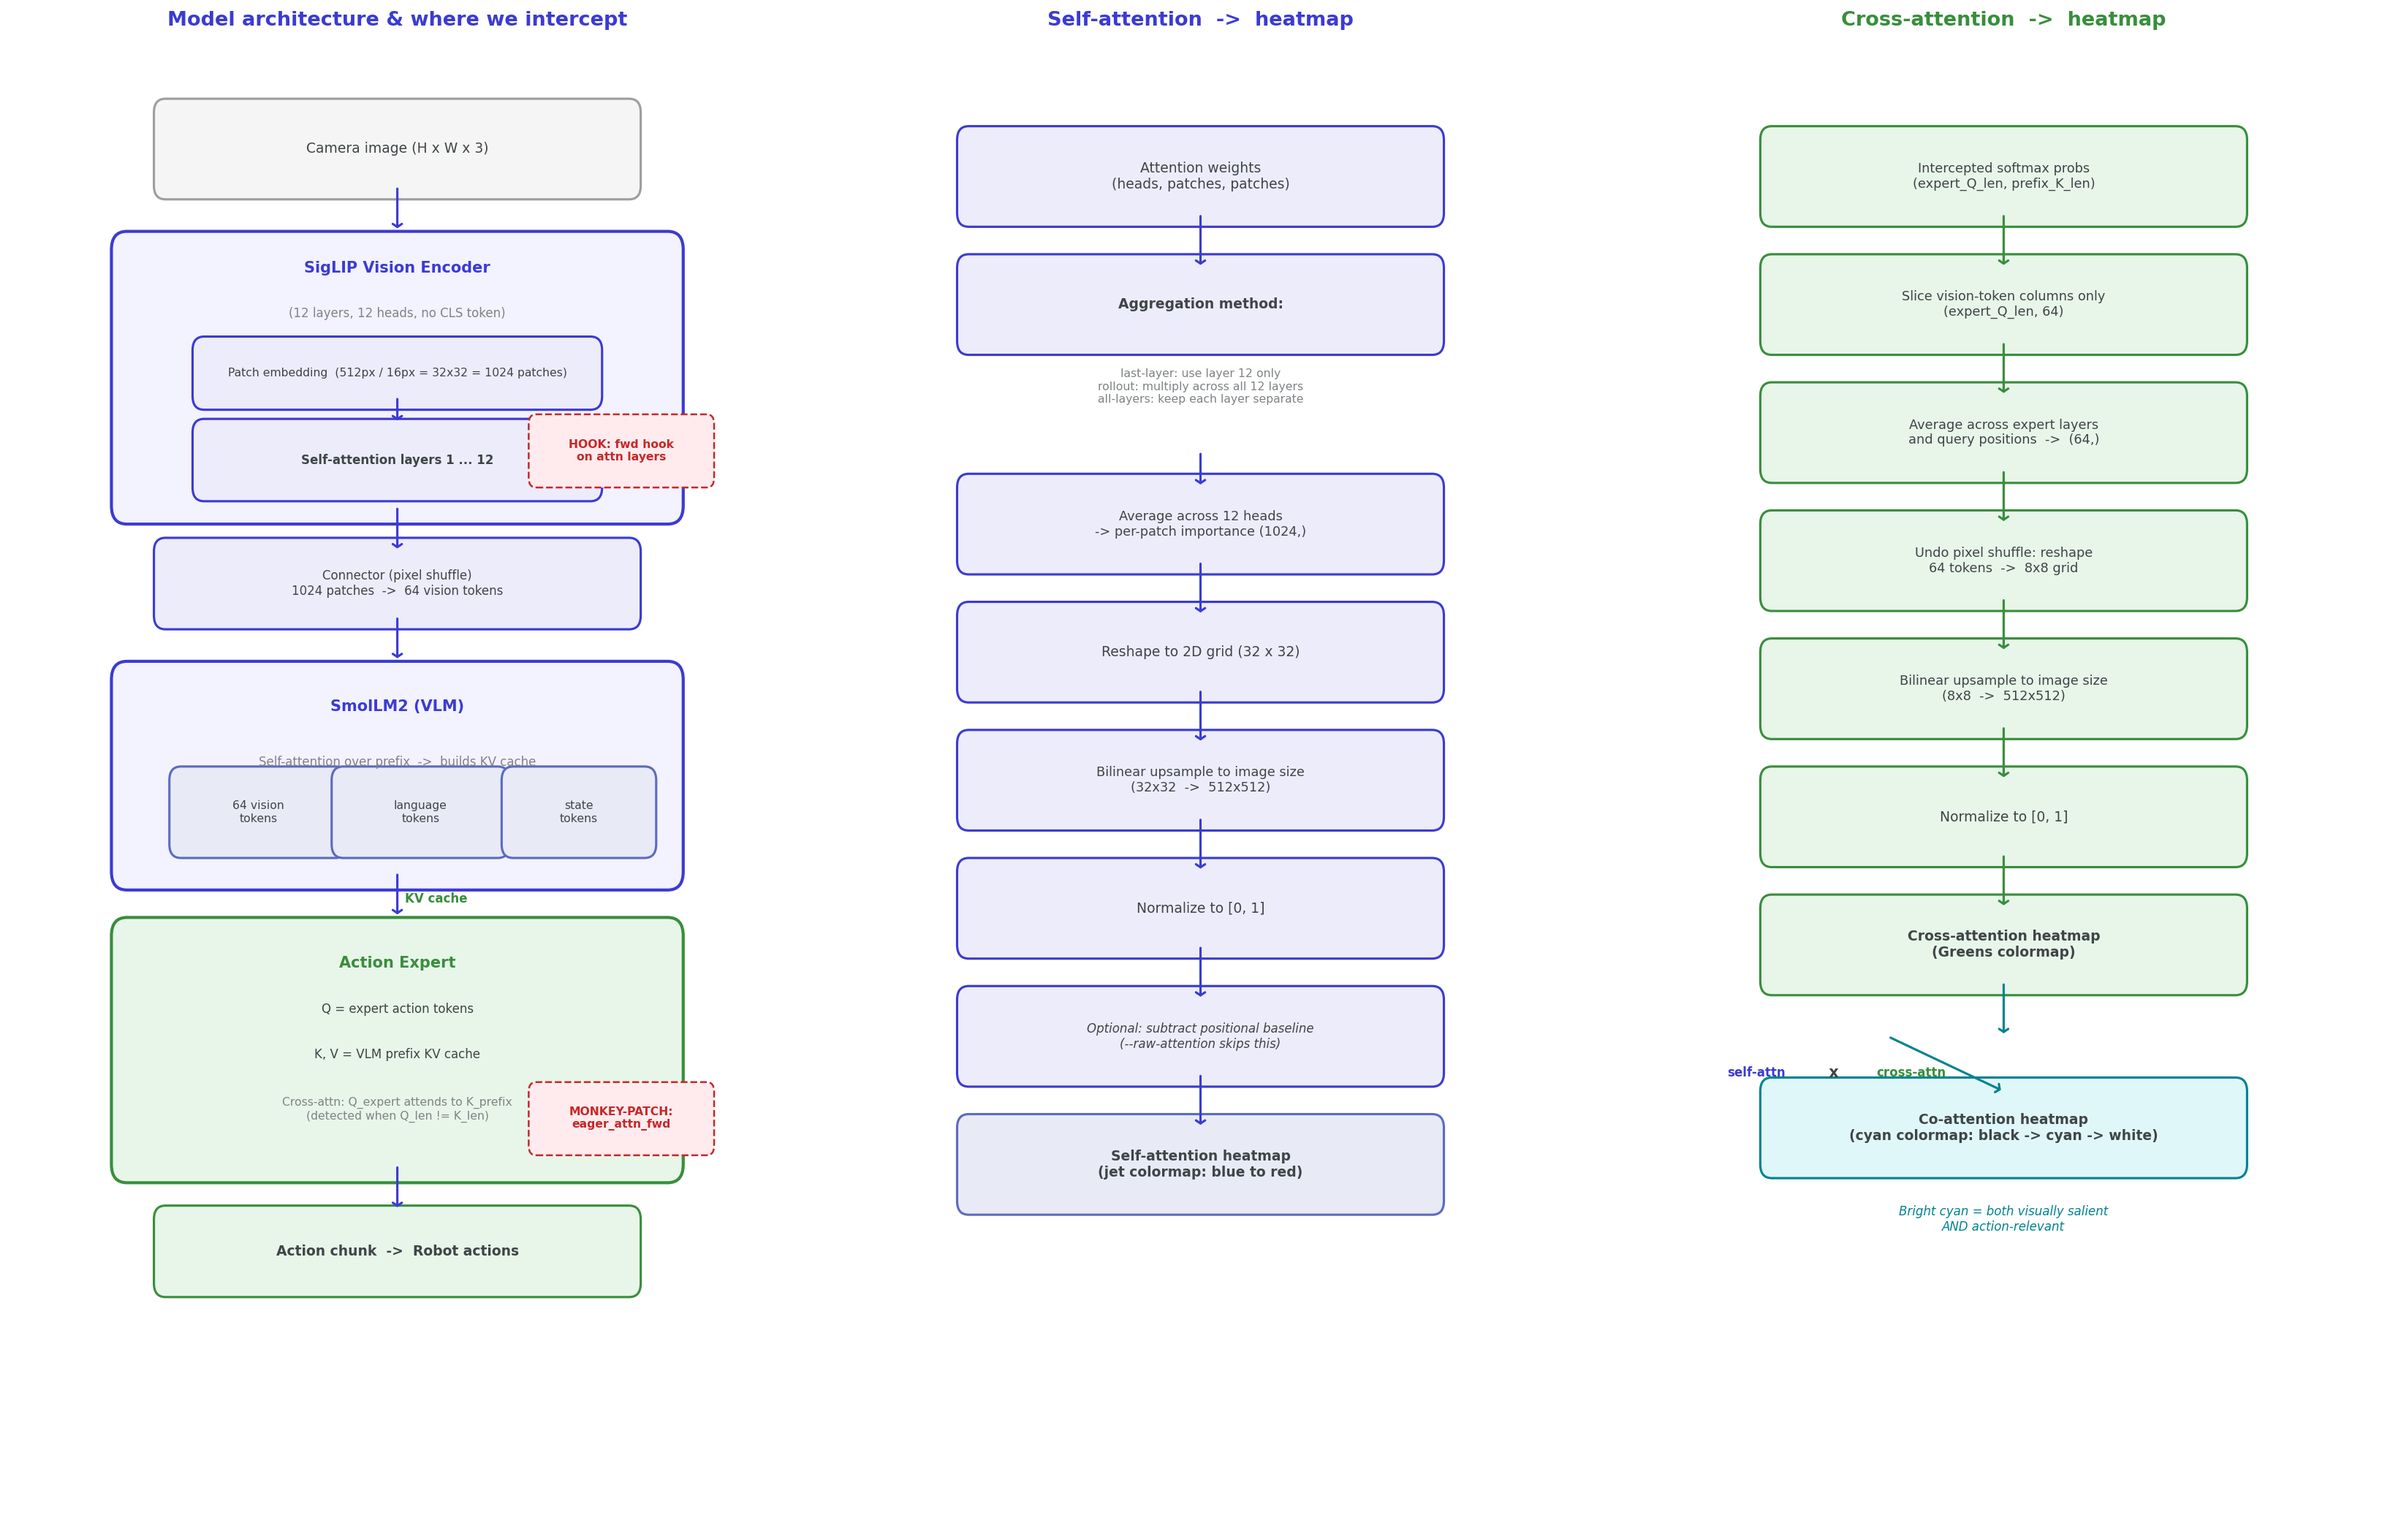
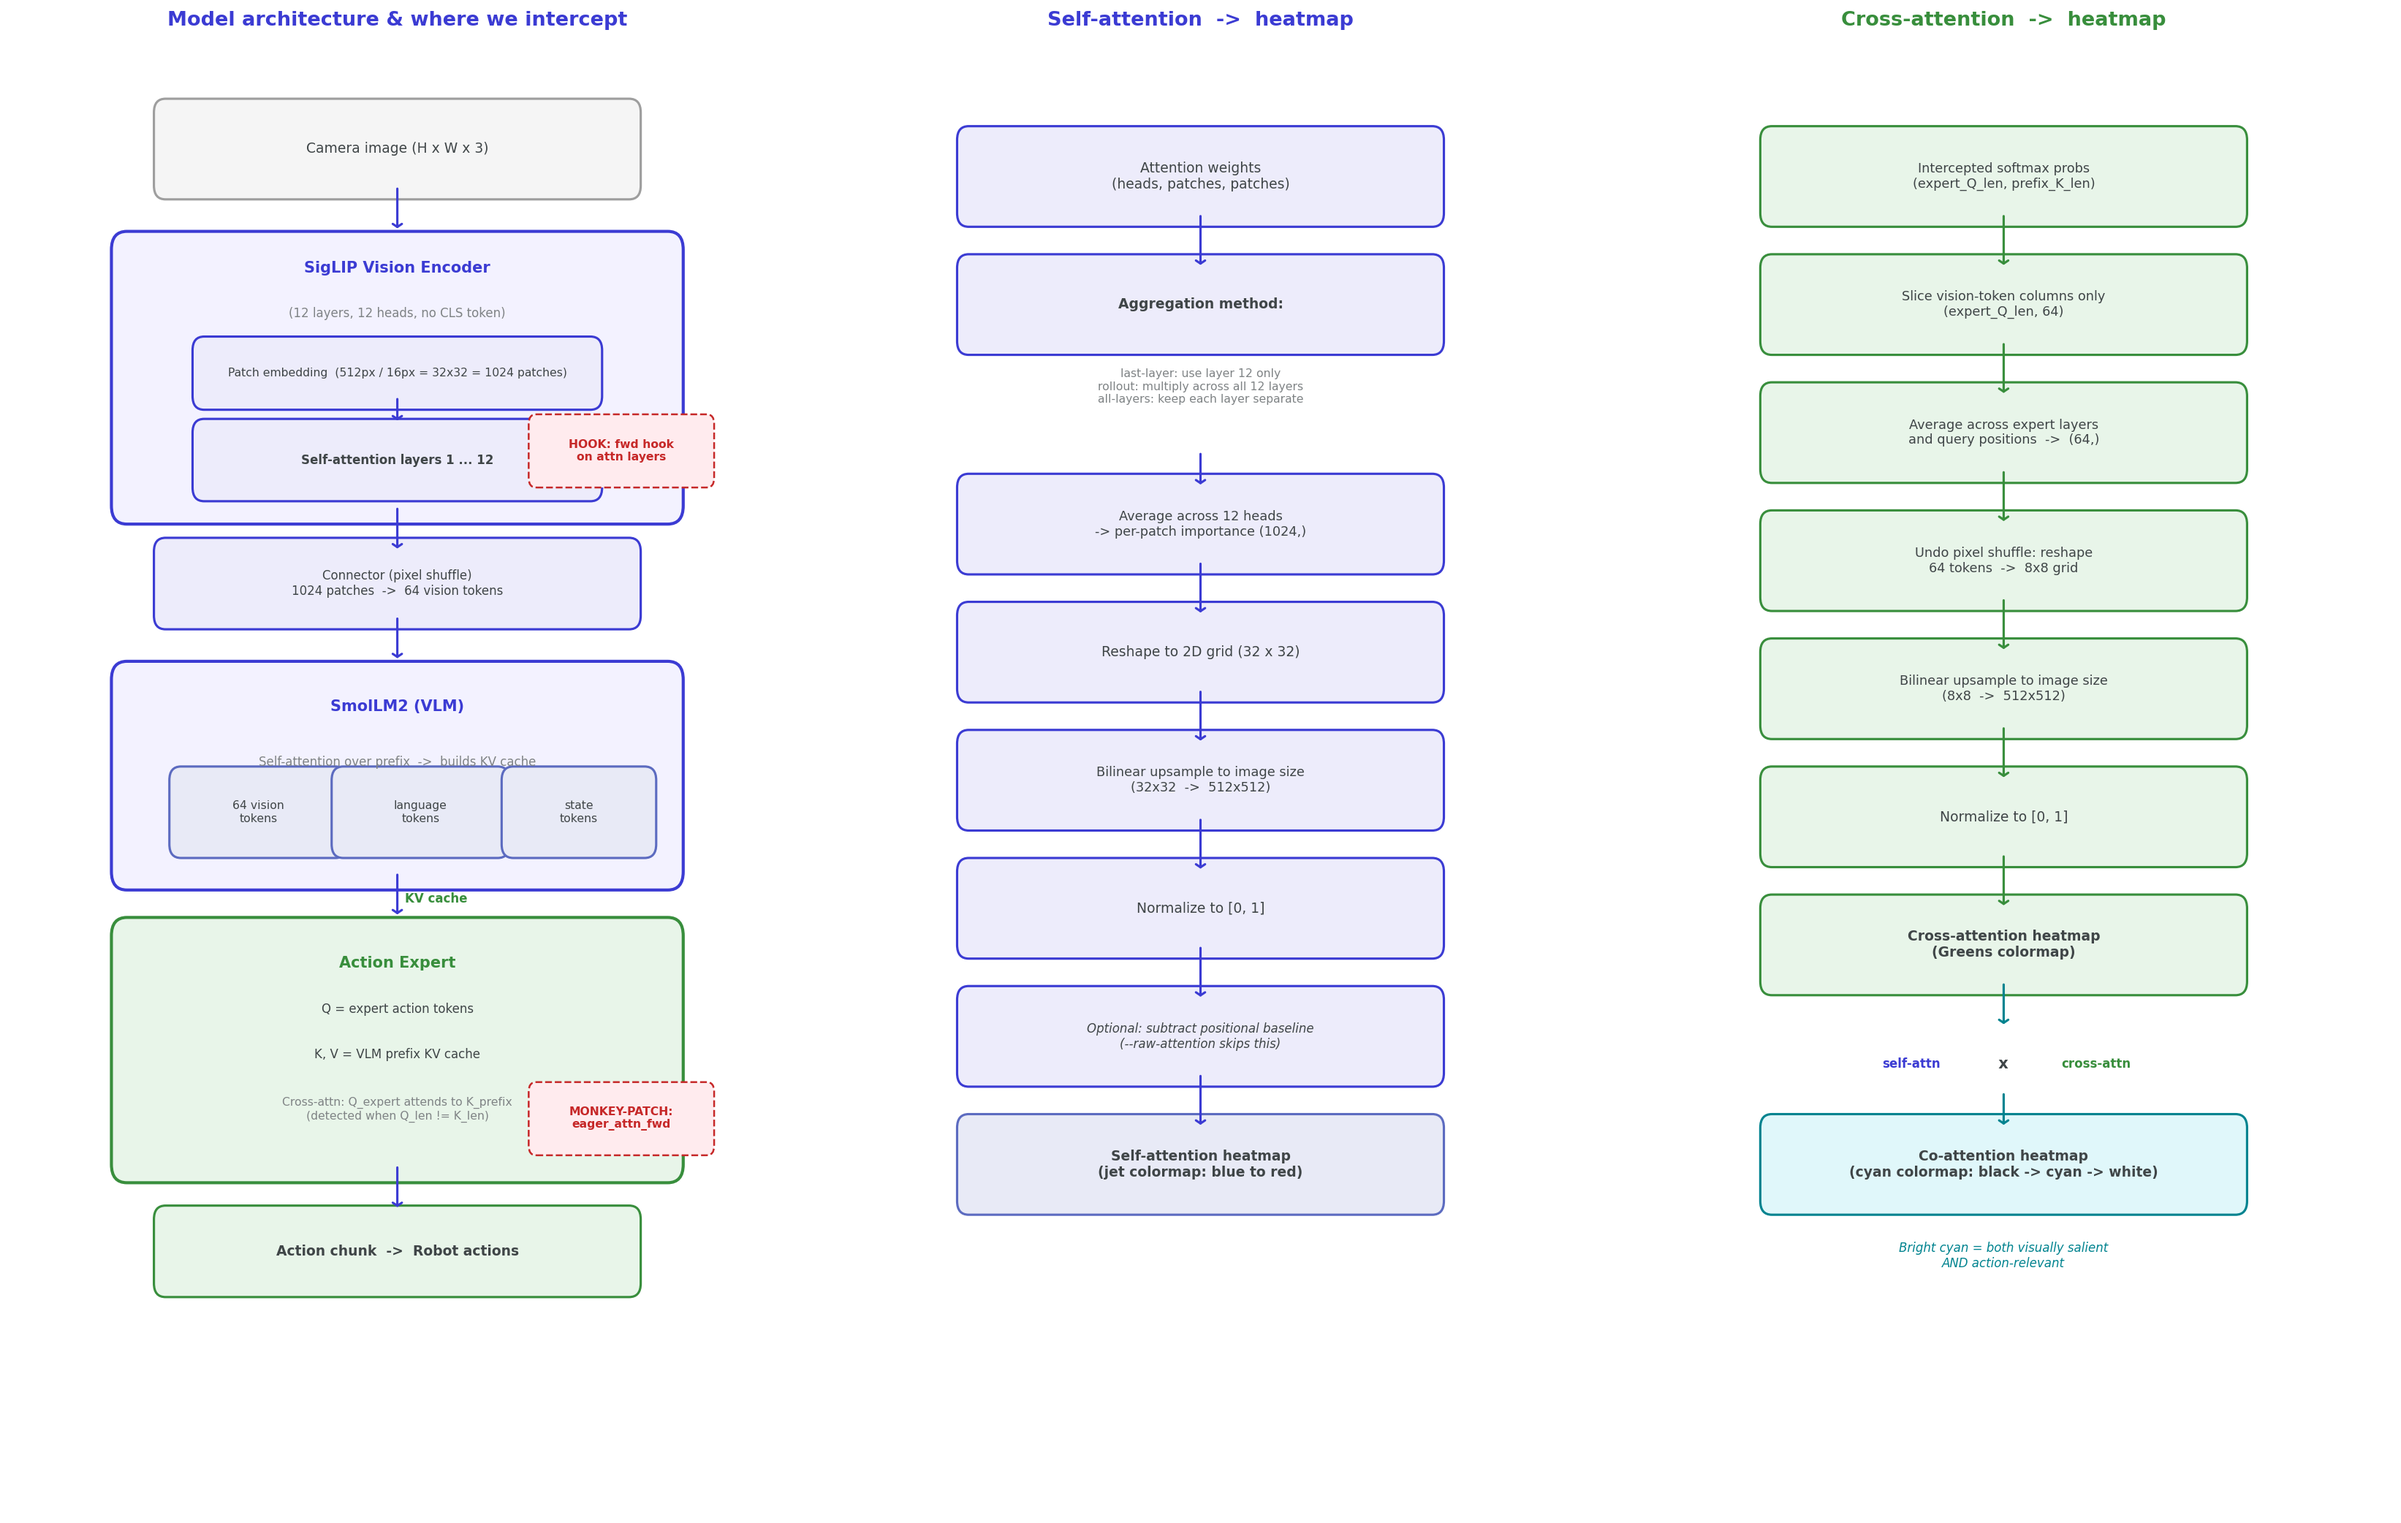
Fix co-attention arrow alignment in architecture diagram
Center the "self-attn x cross-attn" label and use a straight
vertical arrow into the co-attention box instead of a diagonal one.

Changed region(s): [[0.7142, 0.6862, 0.9315, 0.8421]]

diff --git a/assets/generate_diagram.py b/assets/generate_diagram.py
@@ -205,21 +205,22 @@ box(ax, 2, 5.8, 6, 0.8, "Cross-attention heatmap\n(Greens colormap)",
     bg=GREEN_BG, border=GREEN_BORDER, fontsize=9, fontweight="bold")
 
 # Co-attention
-arrow(ax, 5, 5.8, 5, 5.2, color=CYAN_BORDER)
+arrow(ax, 5, 5.8, 5, 5.3, color=CYAN_BORDER)
 
-# Show the multiplication
-ax.text(1.8, 4.8, "self-attn", ha="center", va="center", fontsize=8,
+# Show the multiplication — centered at x=5
+ax.text(3.8, 4.9, "self-attn", ha="center", va="center", fontsize=8,
         color=BLUE_BORDER, fontweight="bold")
-ax.text(2.8, 4.8, " x ", ha="center", va="center", fontsize=10,
+ax.text(5.0, 4.9, " x ", ha="center", va="center", fontsize=10,
         color=TEXT_COLOR, fontweight="bold")
-ax.text(3.8, 4.8, "cross-attn", ha="center", va="center", fontsize=8,
+ax.text(6.2, 4.9, "cross-attn", ha="center", va="center", fontsize=8,
         color=GREEN_BORDER, fontweight="bold")
 
-box(ax, 2, 3.8, 6, 0.8, "Co-attention heatmap\n(cyan colormap: black -> cyan -> white)",
-    bg=CYAN_BG, border=CYAN_BORDER, fontsize=9, fontweight="bold")
-arrow(ax, 3.5, 5.2, 5, 4.6, color=CYAN_BORDER)
+arrow(ax, 5, 4.6, 5, 4.2, color=CYAN_BORDER)
 
-ax.text(5, 3.2, "Bright cyan = both visually salient\nAND action-relevant",
+box(ax, 2, 3.4, 6, 0.8, "Co-attention heatmap\n(cyan colormap: black -> cyan -> white)",
+    bg=CYAN_BG, border=CYAN_BORDER, fontsize=9, fontweight="bold")
+
+ax.text(5, 2.8, "Bright cyan = both visually salient\nAND action-relevant",
         ha="center", va="center", fontsize=8, color=CYAN_BORDER, fontstyle="italic")
 
 plt.tight_layout(w_pad=2)
